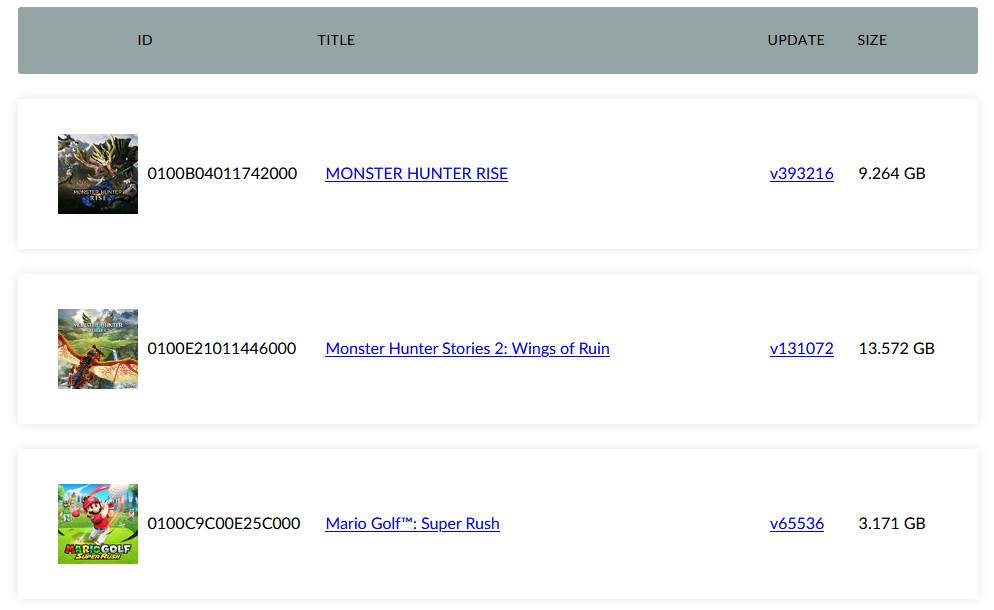
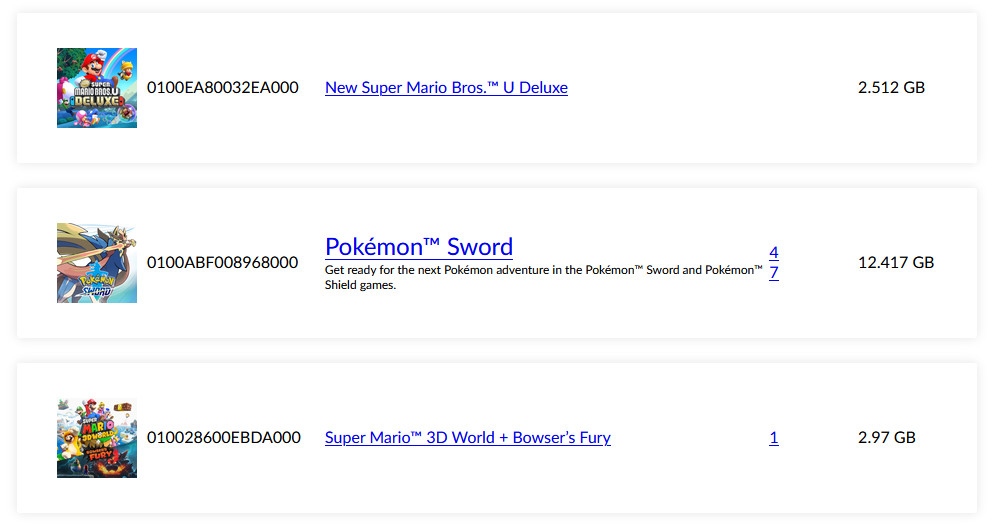
Changed update version look in a more sane way (tanks blawar) and added some css to look better

diff --git a/index.php b/index.php
@@ -75,6 +75,7 @@ h2 small {
 .responsive-table .col-3 {
   flex-basis: 50%;
   align-self: center;
+
 }
 .responsive-table .col-4 {
   flex-basis: 10%;
@@ -117,21 +118,52 @@ IMG.displayed {
 
 .zoom {
 #  background-color: green;
-  transition: transform .2s; /* Animation */
+  
+  transition: transform .2s; 
   width: 100;
   height: 100px;
 }
 
 .zoom:hover {
-  transform: scale(2.5); /* (150% zoom - Note: if the zoom is too large, it will go outside of the viewport) */
+  transform: scale(2.5);
+
 }
 
+.footer {
+   position: fixed;
+   left: 0;
+   bottom: 0;
+   width: 100%;
+   background-color: black;
+   color: white;
+   text-align: center;
+}
+
+.col-3 .introdiv {
+    display: none;
+	font-size: 12px;
+	position: realtive;
+	
+	
+}
+
+.linkdiv:hover {font-size:150%;}
+
+.responsive-table .col-3:hover .introdiv{
+	display: block;
+}
+
+.linkdiv{
+	
+}
 
 </style>
 
 </head>
 <body>
 <?php
+
+$scriptversion = 0.1;
 
 
 function endsWith( $haystack, $needle ) {
@@ -164,13 +196,13 @@ function gettitlesid($filearray){
 	for ($i = 0; $i < count($filearray); $i++) {
 		$listres = array();
 		preg_match('/(?<=\[)[0-9A-F].+?(?=\])/', $filearray[$i], $titleidmatches);
-		preg_match('/(?<=\[)v.+?(?=\])/', $filearray[$i], $versionmatch);
+		preg_match('/(?<=\[v).+?(?=\])/', $filearray[$i], $versionmatch);
 		preg_match('/(\bDLC)/', $filearray[$i], $DLCmatch);
 		
 		
 		$listres[] = $filearray[$i];
 		$listres[] = $titleidmatches[0];
-		if($versionmatch[0] == NULL)$versionmatch[0] = "v0";
+		if($versionmatch[0] == NULL)$versionmatch[0] = "0";
 		$listres[] = $versionmatch[0];
 		if(endsWith($titleidmatches[0],"000")){
 			$listres[] = 0;
@@ -298,13 +330,15 @@ foreach(array_keys($mygamelist) as $key){
 <li class="table-row">
 <div class="col col-1"><div class="zoom"><img class="displayed" src="<?php echo $titlesjson[$mygamelist[$key][1]]["iconUrl"] ?>" alt="" width="80" ></div></div>
 <div class="col col-2"><?php echo $mygamelist[$key][1] ?></div>
-<div class="col col-3"><a href="<?php echo $contentsurl . $mygamelist[$key][0]; ?>"><?php echo $titlesjson[$mygamelist[$key][1]]["name"] ?></a></div>
+
+<div class="col col-3"><div class="linkdiv"><a href="<?php echo $contentsurl . $mygamelist[$key][0]; ?>"><?php echo $titlesjson[$mygamelist[$key][1]]["name"] ?></a></div><div class="introdiv"><?php echo $titlesjson[$mygamelist[$key][1]]["intro"] ?></div></div>
 <div class="col col-4">
 <?php
 foreach(array_keys($mygamelist[$key][4]) as $updatekey){
 ?>
-
-<a href="<?php echo $contentsurl . $mygamelist[$key][4][$updatekey][0];?>"><?php echo $mygamelist[$key][4][$updatekey][2]; ?></a>
+<div class="linkdiv">
+<a href="<?php echo $contentsurl . $mygamelist[$key][4][$updatekey][0];?>"><?php echo intval($mygamelist[$key][4][$updatekey][2])/65536; ?></a>
+</div>
 
 
 
@@ -341,7 +375,7 @@ foreach(array_keys($mydlclist) as $key){
 
 <li class="table-row">
 <div class="col col-2"><?php echo $mydlclist[$key][1]; ?></div>
-<div class="col col-3"><a href="<?php echo $contentsurl . $mydlclist[$key][0]; ?>"><?php echo $titlesjson[$mydlclist[$key][1]]["name"]; ?></a></div>
+<div class="col col-3"><div class="linkdiv"><a href="<?php echo $contentsurl . $mydlclist[$key][0]; ?>"><?php echo $titlesjson[$mydlclist[$key][1]]["name"]; ?></a></div></div>
 <div class="col col-4"><?php echo round(($titlesjson[$mydlclist[$key][1]]["size"]/1024/1024/1024),3) . " GB"; ?></div>
 
 
@@ -355,7 +389,9 @@ foreach(array_keys($mydlclist) as $key){
 </ul>
 </div>
 
-
+<div class="footer">
+<?php echo "NSP Indexer v" . $scriptversion; ?>
+</div>
 
 </body>
 </html>

diff --git a/README.md b/README.md
@@ -8,3 +8,6 @@
 Place index.php into your webserver and edit settings to match your config
 
 Hope you enjoy it!
+
+## Thanks to
+- blawar for nsp update version look suggestion
